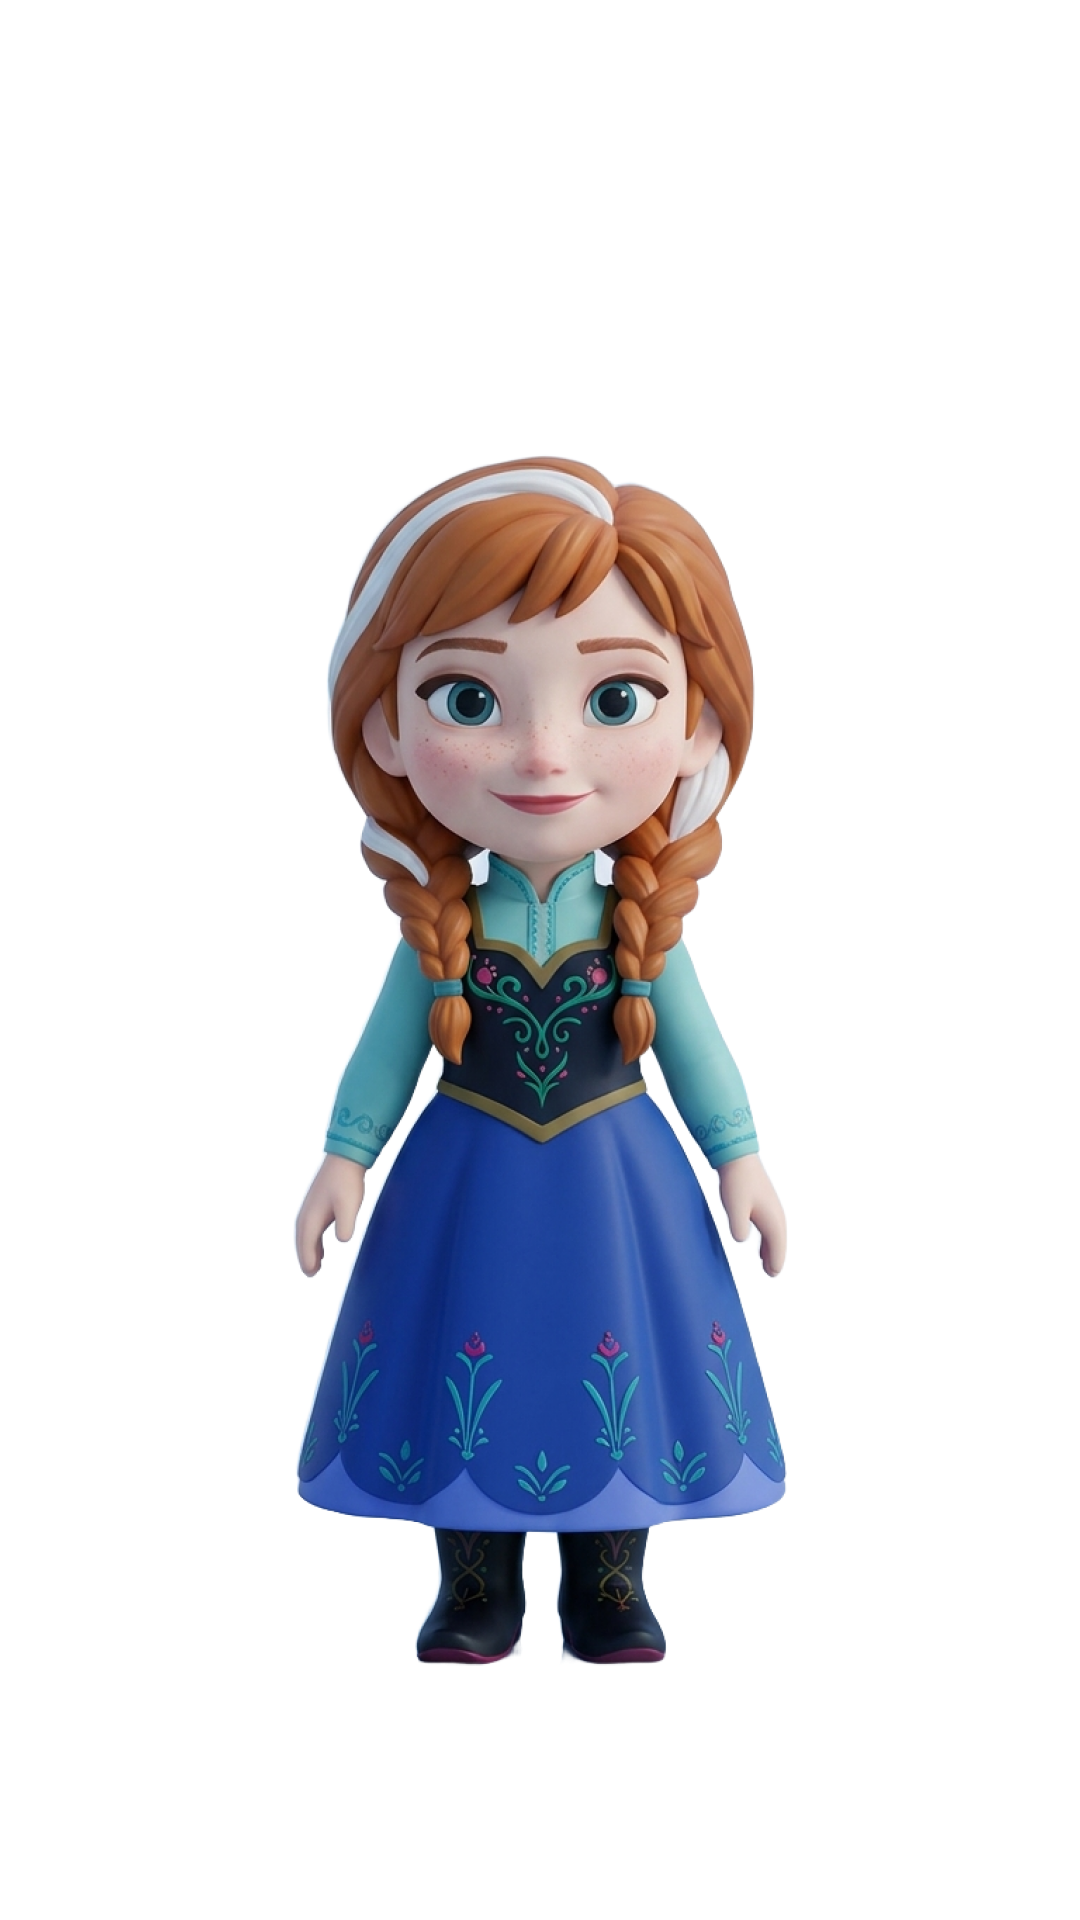
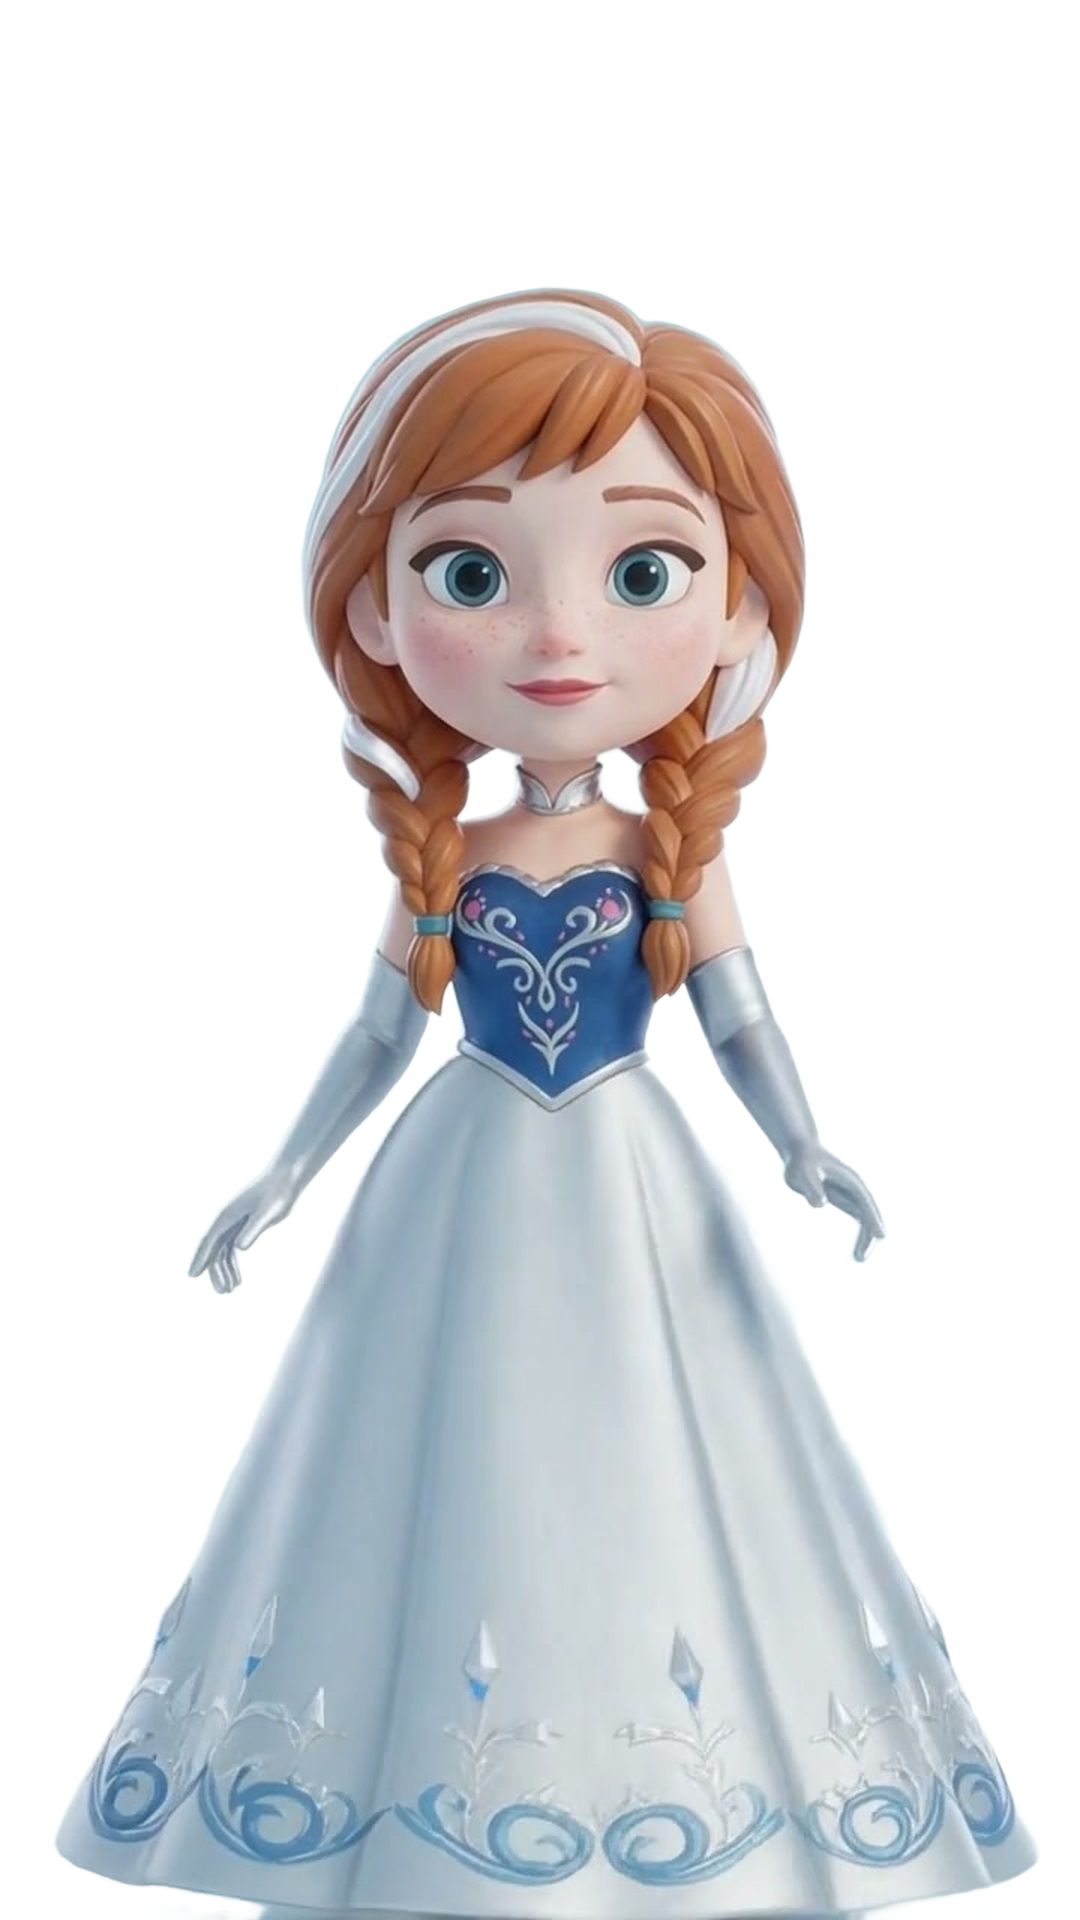
feat(cumpleclick): Anna de gala, y el aviso de tablet acostada
Anna de gala YA EXISTIA y yo dije que no. Estaba en
`themes/hielo/invitation/candidates/saludo-anna-v3.mp4`, uno de los candidatos de la
invitacion: vestido largo marfil, corpino azul bordado, guantes largos. Nunca paso de
candidato en video a imagen de la tematica, asi que buscando por nombre de archivo no aparecia.
Busque imagenes y no mire los videos; Luis insistio tres veces y tenia razon.

Como se armo, sin gastar un credito en generar: siete cuadros del video, se eligio el mas
frontal con los ojos abiertos (f_04), y se llevo de 720x1280 a los 1080x1920 de la tematica.
Es una ampliacion de 1,5x sobre un render limpio, no un original: se nota poco al tamano en
que se ve en la tablet, y queda dicho.

El recorte transparente si se pago (quitafondos de Higgsfield, autorizado por Luis). Revisado
sobre magenta y sobre negro: sin halo del fondo viejo ni fleco en los bordes.

Se reemplazan los tres archivos de Anna. El rompecabezas se rehizo encuadrando la figura con
el mismo tamano que tenia. No hubo que tocar themes.json: el recorte se deriva del nombre
(`<base>-cut.png`) y la tematica no guarda medidas anotadas de Anna.

Respaldo de los tres originales en `scratchpad/anna-gala/anteriores/`.

Ademas: el aviso de "pon la tablet acostada" en la foto grupal. Encajar una captura 9:16 en el
marco apaisado conserva solo el 31% del alto, medido sobre una foto real. AVISA, NO BLOQUEA:
con el giro bloqueado —lo normal en un kiosco— bloquear dejaria el modo inservible en plena
[…]

diff --git a/CumpleBooth/src/App.jsx b/CumpleBooth/src/App.jsx
@@ -861,12 +861,15 @@ function BoothApp() {
         />
       )}
       {screen === 'grupal-capturar' && (
-        <Capture
-          onCapture={(dataUrl) => {
-            setGrupalFoto(dataUrl)
-            go('grupal-preview')
-          }}
-        />
+        <>
+          <AvisoAcostar />
+          <Capture
+            onCapture={(dataUrl) => {
+              setGrupalFoto(dataUrl)
+              go('grupal-preview')
+            }}
+          />
+        </>
       )}
       {screen === 'grupal-preview' && grupalFoto && (
         <GrupalPreview
@@ -1951,6 +1954,41 @@ function AsomateElegir({ onDone, onCancel }) {
 }
 
 /** Compone, deja ajustar cada cara en su hueco y guarda. */
+/**
+ * "Pon la tablet acostada": el aviso de la foto grupal.
+ *
+ * El marco de la foto grupal es apaisado y la camara de una tablet de pie entrega un cuadro
+ * vertical: al encajarlo sobrevive solo el 31% del alto, medido sobre una foto real de la
+ * fiesta. Acostada, la camara entrega casi la forma del marco y el grupo sale grande.
+ *
+ * Avisa mientras la pantalla este de pie y se va solo al girarla. No bloquea la captura: con
+ * el giro bloqueado —que es lo normal en una tablet de kiosco— bloquear dejaria el modo
+ * inservible en plena fiesta.
+ */
+function AvisoAcostar() {
+  const [dePie, setDePie] = useState(
+    () => typeof window !== 'undefined' && window.innerHeight > window.innerWidth
+  )
+
+  useEffect(() => {
+    const mirar = () => setDePie(window.innerHeight > window.innerWidth)
+    window.addEventListener('resize', mirar)
+    window.addEventListener('orientationchange', mirar)
+    mirar()
+    return () => {
+      window.removeEventListener('resize', mirar)
+      window.removeEventListener('orientationchange', mirar)
+    }
+  }, [])
+
+  if (!dePie) return null
+  return (
+    <p className="grupal-acostar" role="status">
+      🔄 <strong>Pon la tablet acostada</strong> para que salgan todos
+    </p>
+  )
+}
+
 /**
  * Vista previa de la foto de todos.
  *

diff --git a/CumpleBooth/src/styles.css b/CumpleBooth/src/styles.css
@@ -2979,3 +2979,16 @@ body {
   font-weight: 700;
   white-space: nowrap;
 }
+
+/* Aviso de "pon la tablet acostada" en la foto grupal. Va sobre la cámara, no al lado: si
+   pasa desapercibido, el grupo sale metido en una franja y nadie entiende por qué. */
+.grupal-acostar {
+  margin: 0 auto .6rem;
+  padding: .7rem 1.1rem;
+  max-width: 92%;
+  border-radius: 999px;
+  background: var(--yellow, #ffb800);
+  color: var(--dark2, #3a1f2b);
+  font-size: 1.05rem;
+  text-align: center;
+}
